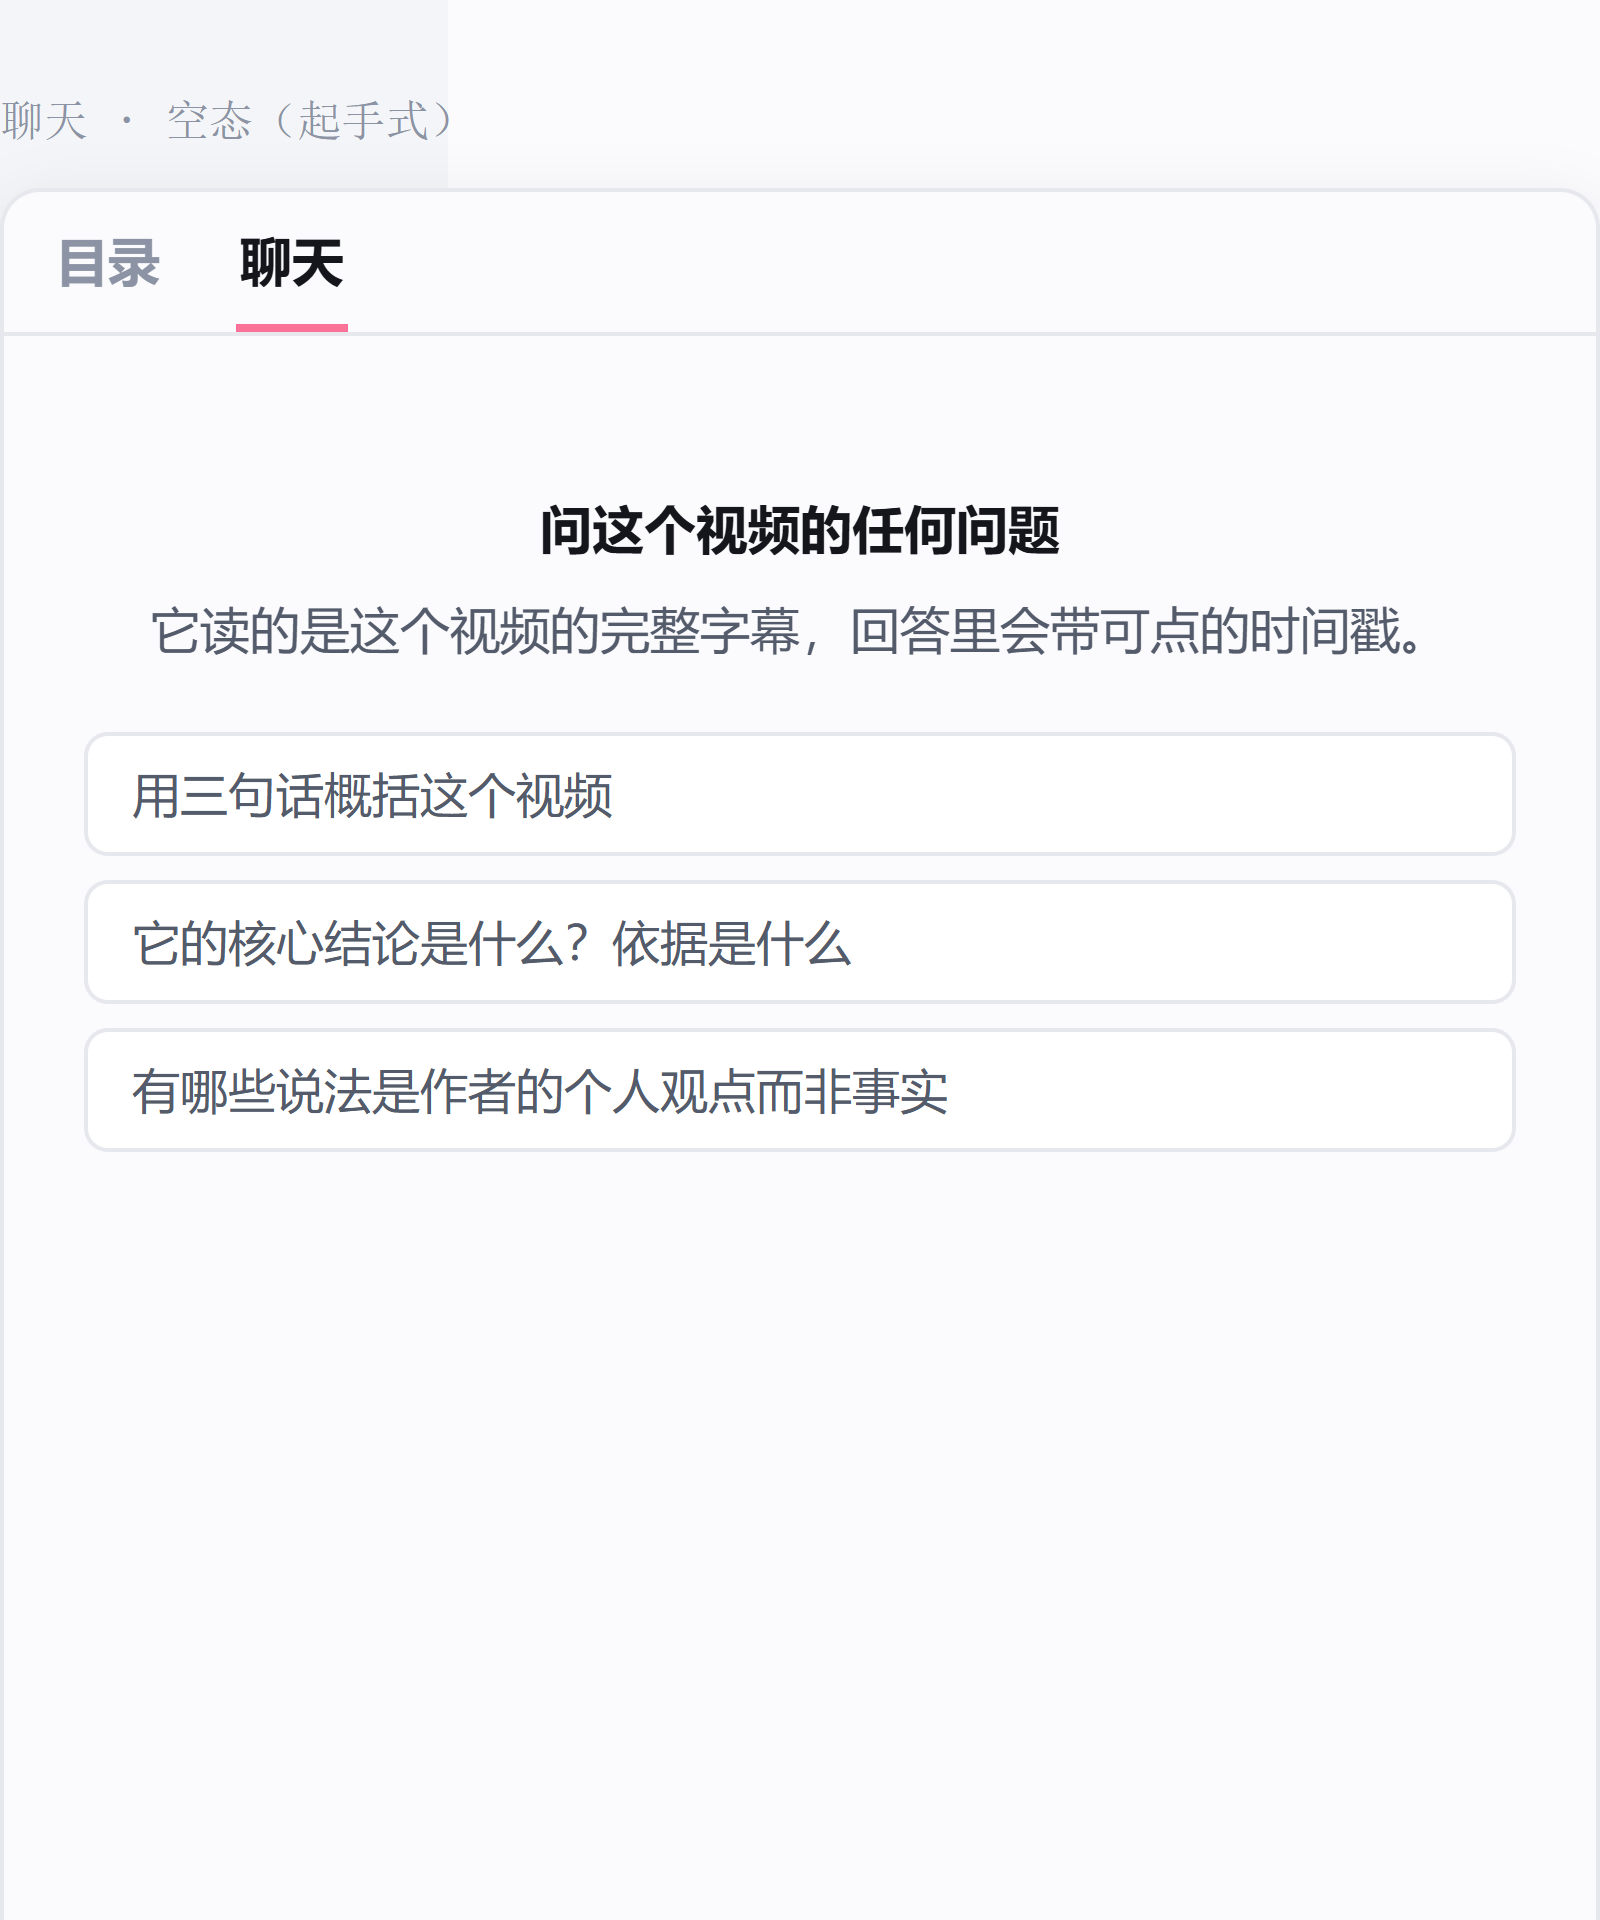
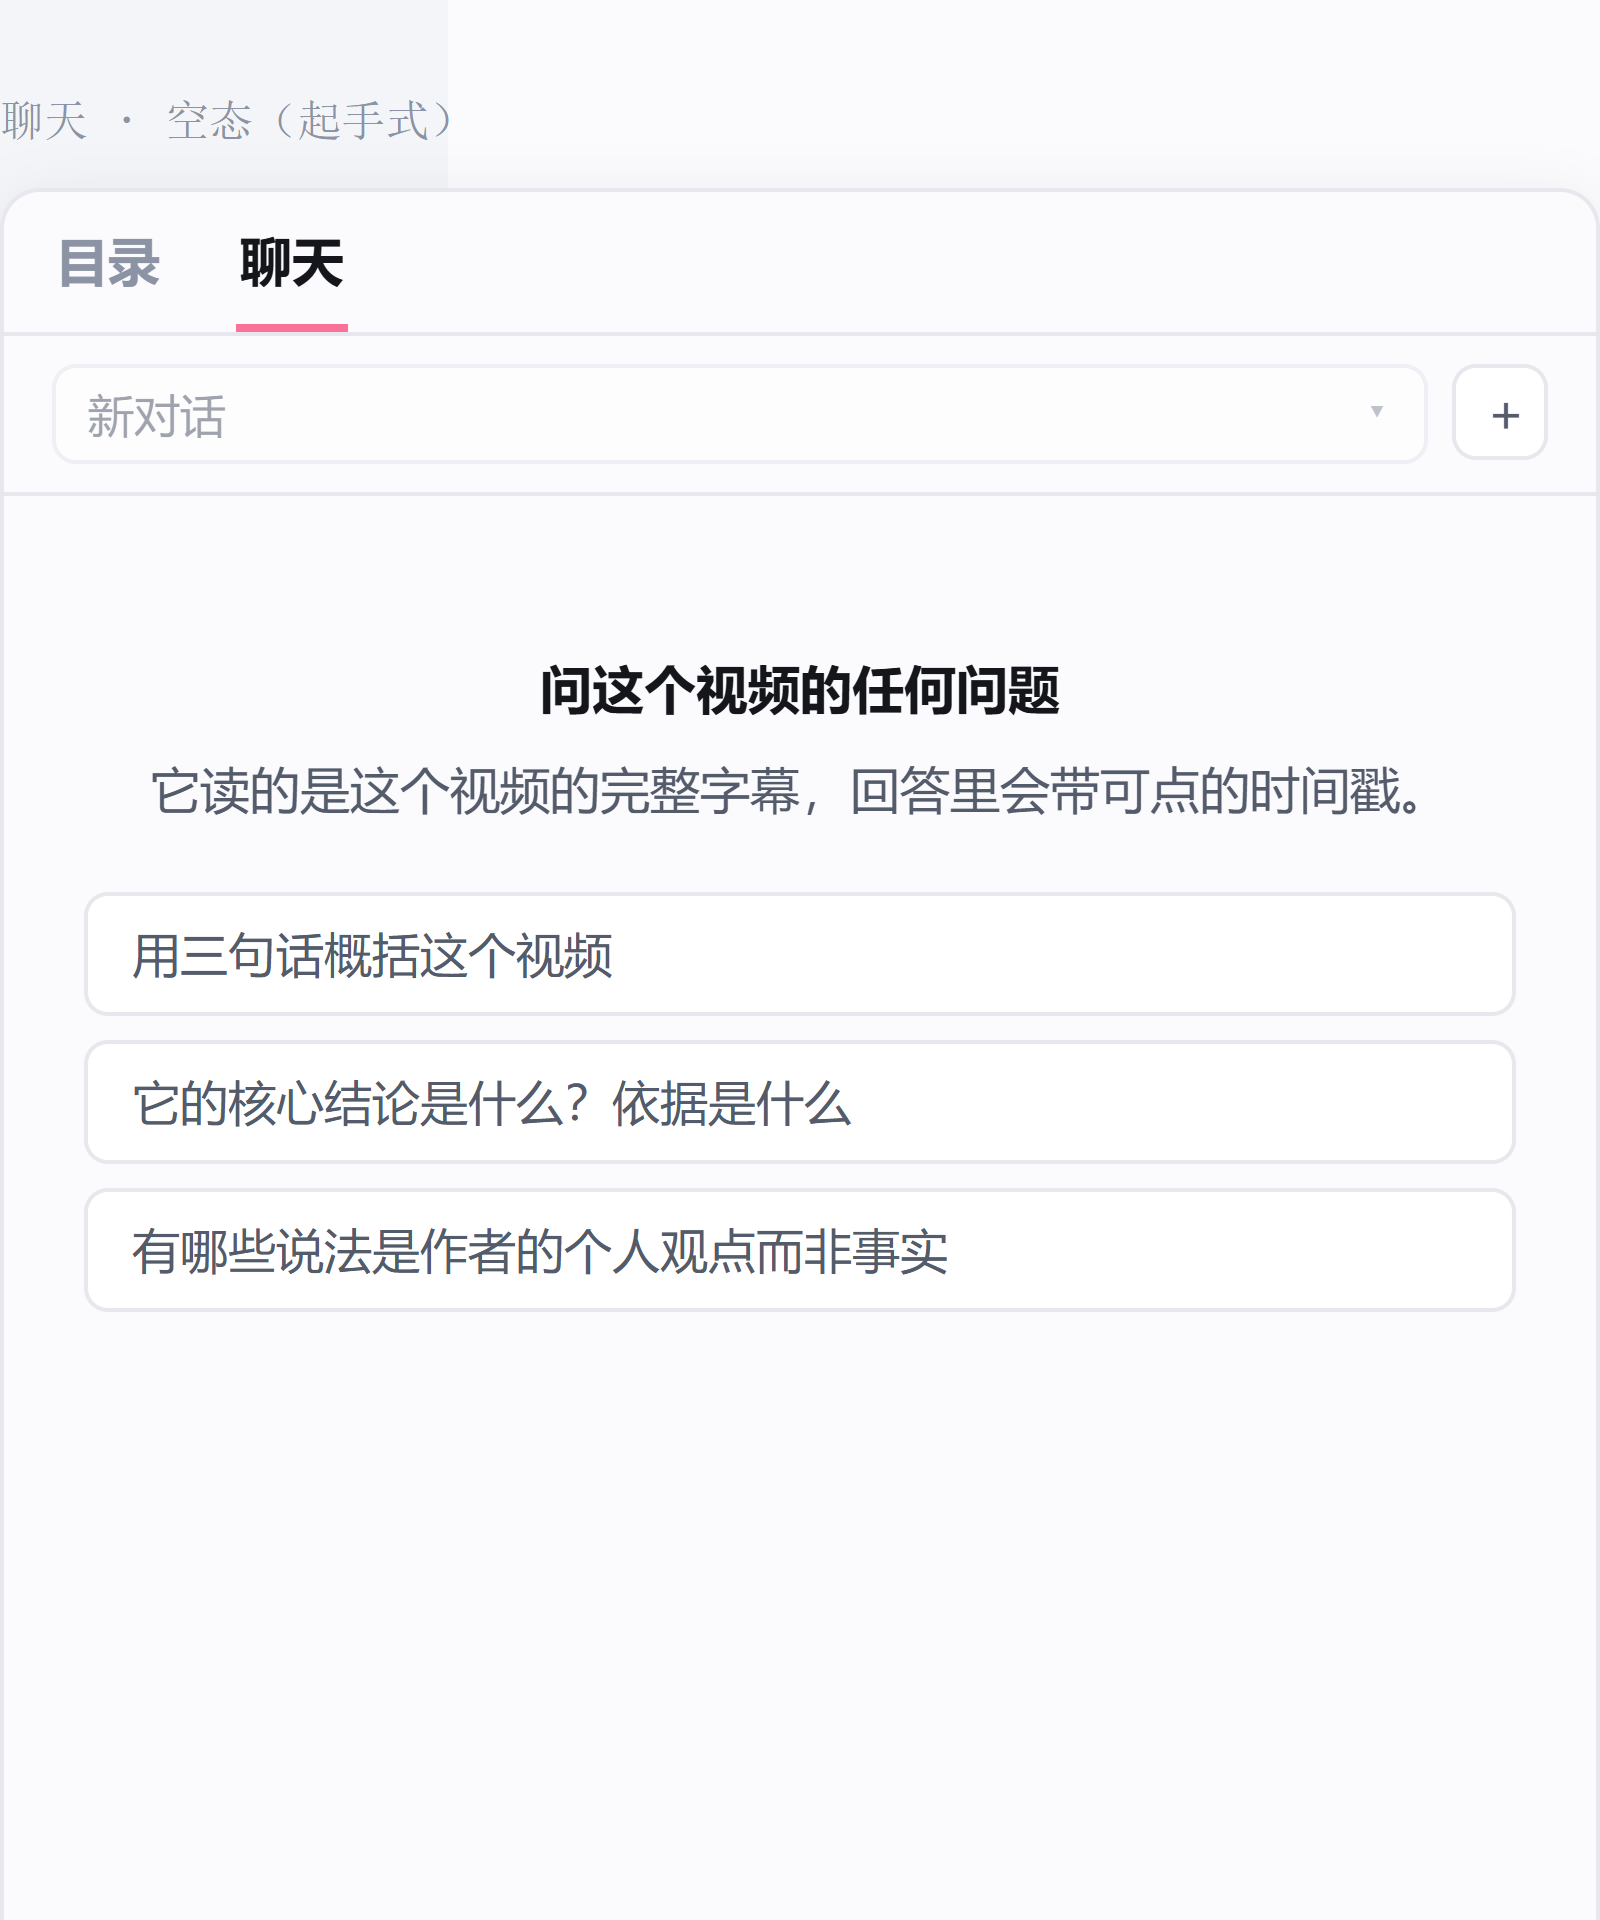
样式清理：删除 ChatPanel 重复块，markdown 公共样式收编到 theme.css .md 作用域
- ChatPanel：.attaches/.attach 系、.preview 系两组完整重复的样式块删除
- NoteBody/ChatPanel 中完全一致的表格/代码块/链接/KaTeX 样式上收到
  theme.css 的 .md 作用域，容器挂 .md 类；行内 code 基础样式一并收编
  （消除 .msg code 压过 .md pre code 的层级隐患）
- 刻意不同的微调（.ts 胶囊、标题、列表间距）保留在组件内，AGENTS.md 补约定
- 归一的数值差异：表格字号改 0.92em 相对值，margin/padding 取 ±1px 中值
- 验证：pnpm check 全绿（206 测试），pnpm shot:components 断言全过

diff --git a/components/ChatPanel.vue b/components/ChatPanel.vue
@@ -432,7 +432,7 @@ defineExpose({ focus: () => input.value?.focus() });
             </div>
             <p v-else-if="b.imagesLost" class="msg__lost">（这一轮的图片已不再保留）</p>
             <!-- eslint-disable-next-line vue/no-v-html -- 已在 markdown.ts 中转义 -->
-            <div class="msg__body" v-html="htmlOf(b)" />
+            <div class="msg__body md" v-html="htmlOf(b)" />
             <div v-if="b.usage" class="msg__usage tnum">
               输入 {{ fmtTokens(b.usage.promptTokens) }} · 输出
               {{ fmtTokens(b.usage.completionTokens) }} tokens
@@ -870,14 +870,7 @@ defineExpose({ focus: () => input.value?.focus() });
   font-weight: 650;
 }
 
-.msg :deep(code) {
-  padding: 1px 4px;
-  border: 1px solid var(--line);
-  border-radius: 4px;
-  background: var(--surface-sunken);
-  font-family: var(--font-time);
-  font-size: calc(11.5px * var(--fs));
-}
+/* 行内代码/表格/代码块/链接/公式的样式在全局 .md 作用域（theme.css） */
 
 /* 时间戳胶囊（聊天里是「引用」，点了跳转） */
 .msg :deep(.ts) {
@@ -895,71 +888,6 @@ defineExpose({ focus: () => input.value?.focus() });
 .msg :deep(.ts:hover) {
   background: var(--bili);
   color: #fff;
-}
-
-/* ---------------- 表格 / 代码块 / 链接 / 公式 ---------------- */
-
-.msg :deep(table) {
-  margin: 8px 0;
-  border-collapse: collapse;
-  width: 100%;
-  font-size: calc(11.5px * var(--fs));
-}
-
-.msg :deep(th),
-.msg :deep(td) {
-  border: 1px solid var(--line);
-  padding: 4px 8px;
-  text-align: left;
-  vertical-align: top;
-}
-
-.msg :deep(th) {
-  background: var(--surface-sunken);
-  font-weight: 650;
-  color: var(--ink);
-}
-
-.msg :deep(td) {
-  color: var(--ink-soft);
-}
-
-.msg :deep(pre) {
-  margin: 8px 0;
-  padding: 8px 10px;
-  border: 1px solid var(--line);
-  border-radius: var(--r-sm);
-  background: var(--surface-sunken);
-  overflow-x: auto;
-}
-
-.msg :deep(pre code) {
-  padding: 0;
-  border: none;
-  background: none;
-  white-space: pre;
-  line-height: 1.6;
-}
-
-.msg :deep(a) {
-  color: var(--bili-deep);
-  text-decoration: none;
-  border-bottom: 1px solid var(--bili-line);
-}
-
-.msg :deep(a:hover) {
-  border-bottom-color: var(--bili-deep);
-}
-
-.msg :deep(.katex) {
-  font-size: 1.06em;
-}
-
-.msg :deep(.katex-display) {
-  margin: 8px 0;
-  overflow-x: auto;
-  overflow-y: hidden;
-  padding: 2px 0;
 }
 
 /* ---------------- 空态 ---------------- */
@@ -1077,60 +1005,6 @@ defineExpose({ focus: () => input.value?.focus() });
 .jumpbar__btn:hover {
   border-color: var(--bili);
   color: var(--bili-deep);
-}
-
-/* 待发送的缩略图 */
-.attaches {
-  display: flex;
-  flex-wrap: wrap;
-  gap: 6px;
-  margin-bottom: 7px;
-}
-
-.attach {
-  position: relative;
-  width: 54px;
-  height: 54px;
-}
-
-.attach__img {
-  width: 100%;
-  height: 100%;
-  border: 1px solid var(--line-strong);
-  border-radius: var(--r-sm);
-  object-fit: cover;
-}
-
-.attach__del {
-  position: absolute;
-  top: -5px;
-  right: -5px;
-  display: grid;
-  place-items: center;
-  width: 16px;
-  height: 16px;
-  border: 1px solid var(--line-strong);
-  border-radius: 50%;
-  background: var(--surface);
-  color: var(--ink-soft);
-  font-size: calc(12px * var(--fs));
-  line-height: 1;
-  box-shadow: var(--shadow-1);
-}
-
-.attach__del:hover {
-  border-color: var(--err);
-  color: var(--err);
-}
-
-.composer__hint {
-  margin: 0 0 6px;
-  color: var(--ink-mist);
-  font-size: calc(11.5px * var(--fs));
-}
-
-.composer__hint--warn {
-  color: var(--warn);
 }
 
 /* 待发送的缩略图 */
@@ -1310,35 +1184,6 @@ defineExpose({ focus: () => input.value?.focus() });
   background: var(--bili);
   vertical-align: -2px;
   animation: blink 1.05s steps(2, start) infinite;
-}
-
-/* ---------------- 图片放大 ---------------- */
-
-.preview {
-  position: fixed;
-  inset: 0;
-  z-index: 50;
-  display: flex;
-  flex-direction: column;
-  align-items: center;
-  justify-content: center;
-  gap: 12px;
-  padding: 16px;
-  background: rgba(0, 0, 0, 0.82);
-  cursor: zoom-out;
-}
-
-.preview__img {
-  max-width: 100%;
-  max-height: 82vh;
-  border-radius: var(--r-sm);
-  object-fit: contain;
-}
-
-.preview__tip {
-  margin: 0;
-  color: rgba(255, 255, 255, 0.7);
-  font-size: calc(11.5px * var(--fs));
 }
 
 /* ---------------- 图片放大 ---------------- */

diff --git a/components/NoteBody.vue b/components/NoteBody.vue
@@ -129,7 +129,7 @@ function onClick(ev: MouseEvent): void {
 <template>
   <article ref="root" class="note" :class="{ 'note--streaming': props.streaming }" @click="onClick">
     <!-- eslint-disable-next-line vue/no-v-html -- 内容已在 markdown.ts 中做过转义 -->
-    <div class="note__inner" v-html="props.html" />
+    <div class="note__inner md" v-html="props.html" />
     <span v-if="props.streaming" class="caret" aria-hidden="true" />
   </article>
 </template>
@@ -356,85 +356,10 @@ function onClick(ev: MouseEvent): void {
   font-style: italic;
 }
 
-.note :deep(code) {
-  padding: 1.5px 5px;
-  border: 1px solid var(--line);
-  border-radius: 4px;
-  background: var(--surface-sunken);
-  font-family: var(--font-time);
-  font-size: calc(11.5px * var(--fs));
-}
-
 .note :deep(hr) {
   margin: 18px 0;
   border: none;
   border-top: 1px solid var(--line);
-}
-
-/* ---------------- 表格 / 代码块 / 链接 / 公式 ---------------- */
-
-.note :deep(table) {
-  margin: 10px 0;
-  border-collapse: collapse;
-  width: 100%;
-  font-size: calc(12px * var(--fs));
-}
-
-.note :deep(th),
-.note :deep(td) {
-  border: 1px solid var(--line);
-  padding: 5px 9px;
-  text-align: left;
-  vertical-align: top;
-}
-
-.note :deep(th) {
-  background: var(--surface-sunken);
-  font-weight: 650;
-  color: var(--ink);
-}
-
-.note :deep(td) {
-  color: var(--ink-soft);
-}
-
-.note :deep(pre) {
-  margin: 10px 0;
-  padding: 9px 11px;
-  border: 1px solid var(--line);
-  border-radius: var(--r-sm);
-  background: var(--surface-sunken);
-  overflow-x: auto;
-}
-
-.note :deep(pre code) {
-  padding: 0;
-  border: none;
-  background: none;
-  white-space: pre;
-  line-height: 1.6;
-}
-
-.note :deep(a) {
-  color: var(--bili-deep);
-  text-decoration: none;
-  border-bottom: 1px solid var(--bili-line);
-}
-
-.note :deep(a:hover) {
-  border-bottom-color: var(--bili-deep);
-}
-
-/* KaTeX 公式：随正文字号，独立公式超宽时横向滚动 */
-.note :deep(.katex) {
-  font-size: 1.06em;
-}
-
-.note :deep(.katex-display) {
-  margin: 10px 0;
-  overflow-x: auto;
-  overflow-y: hidden;
-  padding: 2px 0;
 }
 
 /* ================================================================== *

diff --git a/assets/theme.css b/assets/theme.css
@@ -239,3 +239,86 @@ button {
   object-fit: contain;
   display: block;
 }
+
+/* ================================================================== *
+ * Markdown 渲染内容（.md 作用域）
+ *
+ * 笔记正文（.note__inner）与聊天气泡（.msg__body）渲染同一套 HTML，
+ * 这里只放两边完全一致的规则；各自的排版微调仍留在组件 scoped 样式里
+ * （.ts 胶囊、标题、列表间距等两侧刻意不同，不要合并）。
+ * 行内 code 的基础样式也收编在此，组件里不再各写一份。
+ * ================================================================== */
+
+.md code {
+  padding: 1px 5px;
+  border: 1px solid var(--line);
+  border-radius: 4px;
+  background: var(--surface-sunken);
+  font-family: var(--font-time);
+  font-size: calc(11.5px * var(--fs));
+}
+
+.md table {
+  margin: 9px 0;
+  border-collapse: collapse;
+  width: 100%;
+  /* 相对容器字号：笔记与聊天基础字号不同，同比例缩放 */
+  font-size: 0.92em;
+}
+
+.md th,
+.md td {
+  border: 1px solid var(--line);
+  padding: 4px 9px;
+  text-align: left;
+  vertical-align: top;
+}
+
+.md th {
+  background: var(--surface-sunken);
+  font-weight: 650;
+  color: var(--ink);
+}
+
+.md td {
+  color: var(--ink-soft);
+}
+
+.md pre {
+  margin: 9px 0;
+  padding: 8px 10px;
+  border: 1px solid var(--line);
+  border-radius: var(--r-sm);
+  background: var(--surface-sunken);
+  overflow-x: auto;
+}
+
+.md pre code {
+  padding: 0;
+  border: none;
+  background: none;
+  white-space: pre;
+  line-height: 1.6;
+}
+
+.md a {
+  color: var(--bili-deep);
+  text-decoration: none;
+  border-bottom: 1px solid var(--bili-line);
+}
+
+.md a:hover {
+  border-bottom-color: var(--bili-deep);
+}
+
+/* KaTeX 公式：随正文字号，独立公式超宽时横向滚动 */
+.md .katex {
+  font-size: 1.06em;
+}
+
+.md .katex-display {
+  margin: 9px 0;
+  overflow-x: auto;
+  overflow-y: hidden;
+  padding: 2px 0;
+}
